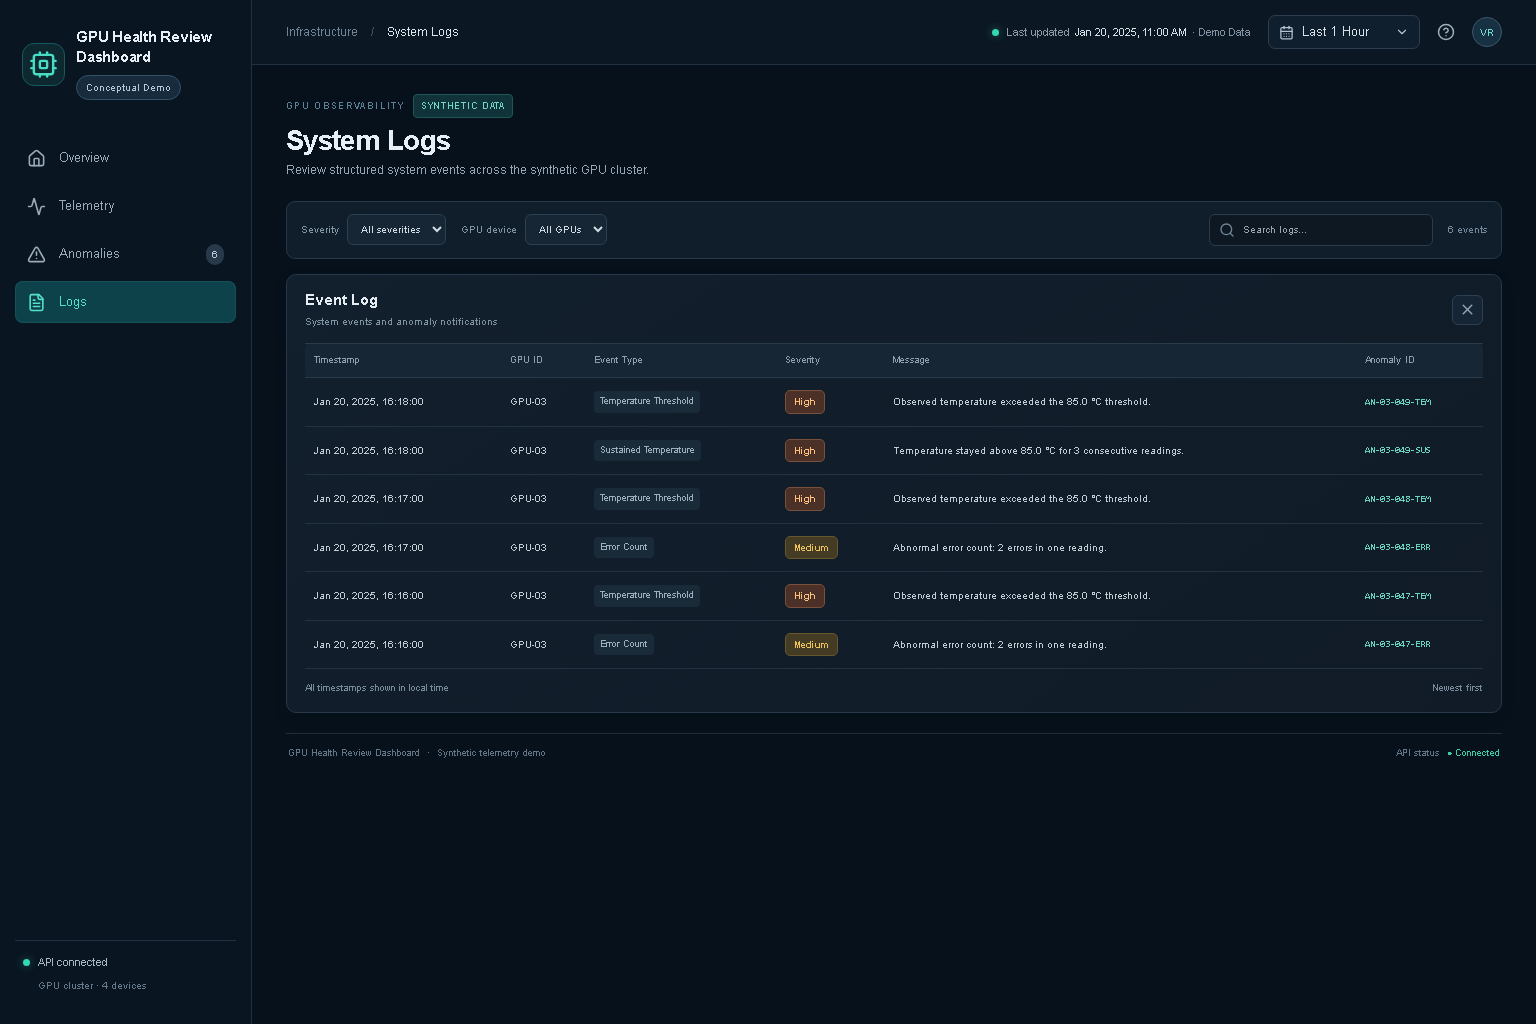
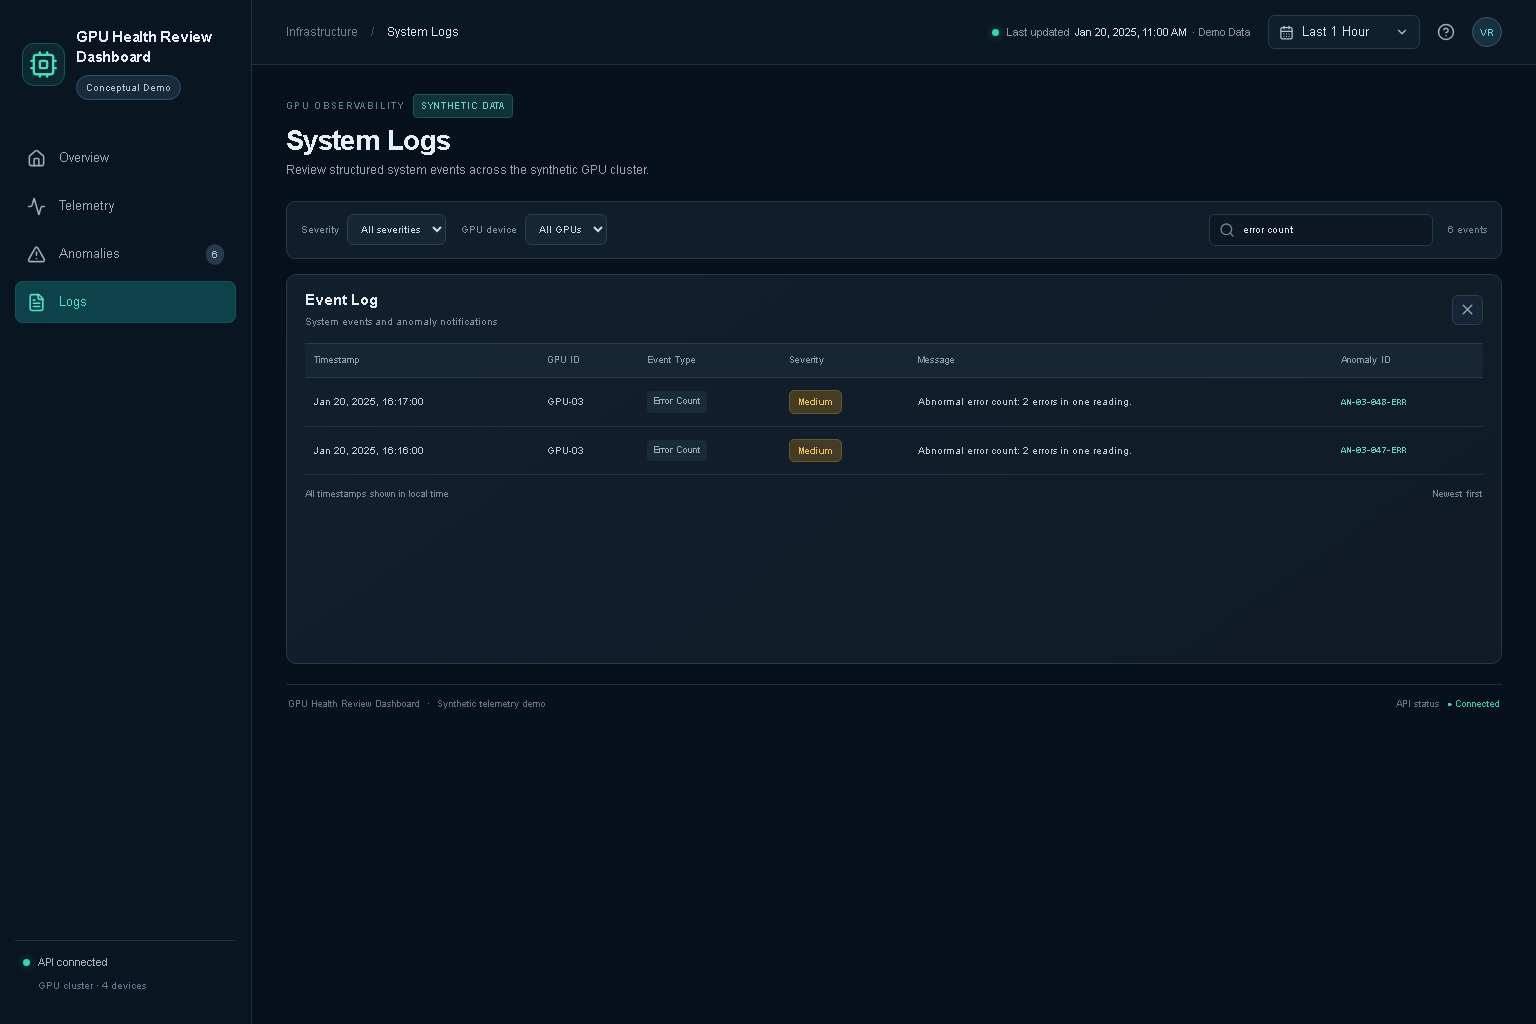
test: strengthen GPU dashboard browser verification

diff --git a/app/page.tsx b/app/page.tsx
@@ -26,6 +26,7 @@ export default function Dashboard(){
  const [page,setPage]=useState('overview'),[gpus,setGpus]=useState(initialGpus),[points,setPoints]=useState<Point[]>([]),[anomalies,setAnomalies]=useState(demoAnomalies),[logs,setLogs]=useState(demoLogs),[apiOk,setApiOk]=useState(false),[range,setRange]=useState('Last 1 Hour'),[selected,setSelected]=useState(demoAnomalies[1]),[severity,setSeverity]=useState('All severities'),[filterGpu,setFilterGpu]=useState('All GPUs'),[teleGpu,setTeleGpu]=useState('GPU-03'),[query,setQuery]=useState(''),[copied,setCopied]=useState(false);
  useEffect(()=>{let alive=true;fetch(`${API}/summary`).then(r=>{if(!r.ok)throw Error();return r.json()}).then(async s=>{if(!alive)return;setApiOk(true);setGpus(s.gpus);const [p,a,l]=await Promise.all([fetch(`${API}/telemetry`).then(r=>r.json()),fetch(`${API}/anomalies`).then(r=>r.json()),fetch(`${API}/logs`).then(r=>r.json())]);if(!alive)return;setPoints(p);setAnomalies(a);setLogs(l);if(a.length)setSelected(a[0])}).catch(()=>setApiOk(false));return()=>{alive=false}},[]);
  const chartData=useMemo(()=>{if(!points.length)return demoSeries;const map=new Map<string,Record<string,number|string>>();for(const p of points){const time=new Date(p.timestamp).toLocaleTimeString('en-US',{hour:'2-digit',minute:'2-digit',hour12:false});const row=map.get(time)||{time};row[p.gpu_id]=p.temperature_c;map.set(time,row)}return [...map.values()]},[points]);
+ const utilizationData=useMemo(()=>{if(!points.length)return chartData.map((row,i)=>({...row,[teleGpu]:54+(i*7%38)}));const map=new Map<string,Record<string,number|string>>();for(const p of points){const time=new Date(p.timestamp).toLocaleTimeString('en-US',{hour:'2-digit',minute:'2-digit',hour12:false});const row=map.get(time)||{time};row[p.gpu_id]=p.utilization_pct;map.set(time,row)}return [...map.values()]},[points,chartData,teleGpu]);
  const visibleAnomalies=anomalies.filter(a=>(severity==='All severities'||a.severity.toLowerCase()===severity.toLowerCase())&&(filterGpu==='All GPUs'||a.gpu_id===filterGpu));
  const gpuRows=gpus.length?gpus:initialGpus; const elevated=gpuRows.filter(g=>g.temperature_c>=g.threshold_c).length; const totalErr=points.reduce((n,p)=>n+p.error_count,0)||2;
  function exportCsv(){const rows=points.filter(p=>p.gpu_id===teleGpu);const csv=['timestamp,gpu_id,temperature_c,utilization_pct,memory_used_gb,error_count',...rows.map(p=>`${p.timestamp},${p.gpu_id},${p.temperature_c},${p.utilization_pct},${p.memory_used_gb},${p.error_count}`)].join('\n');const a=document.createElement('a');a.href=URL.createObjectURL(new Blob([csv],{type:'text/csv'}));a.download=`${teleGpu.toLowerCase()}-telemetry.csv`;a.click();URL.revokeObjectURL(a.href)}
@@ -38,7 +39,7 @@ export default function Dashboard(){
  <div className="overview-grid"><article className="panel chart-panel"><div className="panel-head"><div><h2>GPU Temperature</h2><p>Temperature by device · °C</p></div><div className="chart-legend">{gpuRows.map((g,i)=><span key={g.id}><i style={{background:colors[i%4]}}/>{g.id}</span>)}</div></div><div className="chart-area"><ResponsiveContainer width="100%" height="100%"><LineChart data={chartData} margin={{top:12,right:10,left:-12,bottom:0}}><CartesianGrid stroke="#243444" vertical={true} strokeDasharray="3 4"/><XAxis dataKey="time" tick={{fill:'#8396a8',fontSize:11}} axisLine={{stroke:'#324456'}} tickLine={false} minTickGap={26}/><YAxis domain={[30,100]} ticks={[30,40,50,60,70,80,90,100]} tick={{fill:'#8396a8',fontSize:11}} axisLine={false} tickLine={false}/><Tooltip contentStyle={{background:'#101c28',border:'1px solid #2b4153',borderRadius:9,color:'#e5edf4'}}/><ReferenceLine y={85} stroke="#f3b643" strokeDasharray="5 5" label={{value:'85° threshold',position:'insideTopRight',fill:'#e5b24f',fontSize:10}}/>{gpuRows.map((g,i)=><Line key={g.id} type="monotone" dataKey={g.id} stroke={colors[i%4]} strokeWidth={2.4} dot={false} activeDot={{r:4}} connectNulls/>)}</LineChart></ResponsiveContainer></div><div className="chart-foot"><span><i className="dot cyan-dot"/> Telemetry refreshed every 30 seconds</span><span>Showing {range.toLowerCase()}</span></div></article>
  <article className="panel gpu-panel"><div className="panel-head"><div><h2>GPU Overview</h2><p>Live health and resource usage</p></div><button className="ghost-icon" aria-label="GPU options"><ChevronDown size={17}/></button></div><div className="gpu-table"><div className="gpu-table-head"><span>GPU ID</span><span>Temperature</span><span>Utilization</span><span>Status</span></div>{gpuRows.map((g,i)=><div className="gpu-row" key={g.id}><span className="gpu-name"><i style={{background:colors[i%4]}}/>{g.id}</span><b>{g.temperature_c.toFixed(1)}°C</b><span>{g.utilization_pct}%</span><span className={`status ${g.health==='Elevated'?'warn':''}`}><i/>{g.health}</span><div className="memory-bar"><span style={{width:`${(g.memory_used_gb/g.memory_total_gb)*100}%`,background:colors[i%4]}}/></div><small>Memory {g.memory_used_gb.toFixed(1)} / {g.memory_total_gb} GB</small></div>)}</div><div className="panel-note"><span className="pulse"/> All devices reporting · <a onClick={()=>setPage('telemetry')}>View telemetry →</a></div></article></div>
  <div className="lower-grid"><article className="panel lower-card"><div className="lower-symbol"><Gauge/></div><div><span>Cluster utilization</span><strong>{Math.round(gpuRows.reduce((n,g)=>n+g.utilization_pct,0)/gpuRows.length)}%</strong></div><div className="progress"><i style={{width:`${gpuRows.reduce((n,g)=>n+g.utilization_pct,0)/gpuRows.length}%`}}/></div><small>Average across all GPUs</small></article><article className="panel lower-card"><div className="lower-symbol amber"><HardDrive/></div><div><span>Memory allocated</span><strong>54.6 <small>GB</small></strong></div><div className="progress"><i style={{width:'57%'}}/></div><small>54.6 GB of 96 GB total</small></article><article className="panel lower-card notice-card"><div className="notice-icon"><AlertTriangle/></div><div><span>Latest alert</span><strong>GPU-03 temperature elevated</strong><small>10:42:00 AM · 91.6 °C observed</small></div><button onClick={()=>{setPage('anomalies');setSelected(anomalies[0])}}>Investigate <span>→</span></button></article></div></>}
- {page==='telemetry'&&<><div className="filterbar"><label>GPU device <select value={teleGpu} onChange={e=>setTeleGpu(e.target.value)}>{gpuRows.map(g=><option key={g.id}>{g.id}</option>)}</select></label><label>Time range <select value={range} onChange={e=>setRange(e.target.value)}><option>Last 1 Hour</option><option>Last 6 Hours</option><option>Last 24 Hours</option></select></label><label className="search"><Search size={16}/><input placeholder="Search records…" value={query} onChange={e=>setQuery(e.target.value)}/></label><span className="filter-meta">{points.filter(p=>p.gpu_id===teleGpu).length||49} telemetry records</span></div><div className="telemetry-charts"><article className="panel tele-chart"><div className="panel-head"><div><h2><Thermometer size={17}/> Temperature</h2><p>{teleGpu} · degrees Celsius</p></div><span className="metric-value">{gpuRows.find(g=>g.id===teleGpu)?.temperature_c.toFixed(1)||'88.6'}°C</span></div><div className="chart-area short-chart"><ResponsiveContainer width="100%" height="100%"><LineChart data={chartData}><CartesianGrid stroke="#243444" strokeDasharray="3 4"/><XAxis dataKey="time" tick={{fill:'#8396a8',fontSize:10}}/><YAxis tick={{fill:'#8396a8',fontSize:10}} domain={[30,100]}/><Tooltip contentStyle={{background:'#101c28',border:'1px solid #2b4153'}}/><ReferenceLine y={gpuRows.find(g=>g.id===teleGpu)?.threshold_c||85} stroke="#f3b643" strokeDasharray="5 5"/><Line dataKey={teleGpu} type="monotone" stroke="#f6b94b" strokeWidth={2.4} dot={false}/></LineChart></ResponsiveContainer></div></article><article className="panel tele-chart"><div className="panel-head"><div><h2><Activity size={17}/> Utilization</h2><p>{teleGpu} · processor load</p></div><span className="metric-value">{gpuRows.find(g=>g.id===teleGpu)?.utilization_pct||91}%</span></div><div className="chart-area short-chart"><ResponsiveContainer width="100%" height="100%"><LineChart data={chartData.map((r,i)=>({...r,load:45+((i*7)%37)}))}><CartesianGrid stroke="#243444" strokeDasharray="3 4"/><XAxis dataKey="time" tick={{fill:'#8396a8',fontSize:10}}/><YAxis tick={{fill:'#8396a8',fontSize:10}} domain={[0,100]}/><Tooltip contentStyle={{background:'#101c28',border:'1px solid #2b4153'}}/><Line dataKey="load" type="monotone" stroke="#45d7bc" strokeWidth={2.4} dot={false}/></LineChart></ResponsiveContainer></div></article></div><article className="panel records"><div className="panel-head"><div><h2>Telemetry Records</h2><p>Source readings for {teleGpu}</p></div><span className="tag">SYNTHETIC DATA</span></div><div className="table-wrap"><table><thead><tr><th>Timestamp</th><th>GPU ID</th><th>Temperature</th><th>Utilization</th><th>Memory</th><th>Errors</th></tr></thead><tbody>{(points.length?points.filter(p=>p.gpu_id===teleGpu):Array.from({length:12},(_,i)=>({timestamp:`2025-01-20T10:${String(59-i).padStart(2,'0')}:00`,gpu_id:teleGpu,temperature_c:58+(i*7%30),utilization_pct:54+(i*11%44),memory_used_gb:11.2+(i%7),error_count:i%7===0?1:0,record_id:`demo-${i}`}))).filter(p=>`${p.timestamp} ${p.gpu_id} ${p.temperature_c}`.toLowerCase().includes(query.toLowerCase())).slice(0,20).map(p=><tr key={p.record_id}><td>{stamp(p.timestamp)}</td><td><span className="table-gpu"><i/> {p.gpu_id}</span></td><td>{p.temperature_c.toFixed(1)} °C</td><td>{p.utilization_pct}%</td><td>{p.memory_used_gb.toFixed(1)} GB</td><td>{p.error_count}</td></tr>)}</tbody></table></div></article></>}
+ {page==='telemetry'&&<><div className="filterbar"><label>GPU device <select value={teleGpu} onChange={e=>setTeleGpu(e.target.value)}>{gpuRows.map(g=><option key={g.id}>{g.id}</option>)}</select></label><label>Time range <select value={range} onChange={e=>setRange(e.target.value)}><option>Last 1 Hour</option><option>Last 6 Hours</option><option>Last 24 Hours</option></select></label><label className="search"><Search size={16}/><input placeholder="Search records…" value={query} onChange={e=>setQuery(e.target.value)}/></label><span className="filter-meta">{points.filter(p=>p.gpu_id===teleGpu).length||49} telemetry records</span></div><div className="telemetry-charts"><article className="panel tele-chart"><div className="panel-head"><div><h2><Thermometer size={17}/> Temperature</h2><p>{teleGpu} · degrees Celsius</p></div><span className="metric-value">{gpuRows.find(g=>g.id===teleGpu)?.temperature_c.toFixed(1)||'88.6'}°C</span></div><div className="chart-area short-chart"><ResponsiveContainer width="100%" height="100%"><LineChart data={chartData}><CartesianGrid stroke="#243444" strokeDasharray="3 4"/><XAxis dataKey="time" tick={{fill:'#8396a8',fontSize:10}}/><YAxis tick={{fill:'#8396a8',fontSize:10}} domain={[30,100]}/><Tooltip contentStyle={{background:'#101c28',border:'1px solid #2b4153'}}/><ReferenceLine y={gpuRows.find(g=>g.id===teleGpu)?.threshold_c||85} stroke="#f3b643" strokeDasharray="5 5"/><Line dataKey={teleGpu} type="monotone" stroke="#f6b94b" strokeWidth={2.4} dot={false}/></LineChart></ResponsiveContainer></div></article><article className="panel tele-chart"><div className="panel-head"><div><h2><Activity size={17}/> Utilization</h2><p>{teleGpu} · processor load</p></div><span className="metric-value">{gpuRows.find(g=>g.id===teleGpu)?.utilization_pct||91}%</span></div><div className="chart-area short-chart"><ResponsiveContainer width="100%" height="100%"><LineChart data={utilizationData}><CartesianGrid stroke="#243444" strokeDasharray="3 4"/><XAxis dataKey="time" tick={{fill:'#8396a8',fontSize:10}}/><YAxis tick={{fill:'#8396a8',fontSize:10}} domain={[0,100]}/><Tooltip contentStyle={{background:'#101c28',border:'1px solid #2b4153'}}/><Line dataKey={teleGpu} type="monotone" stroke="#45d7bc" strokeWidth={2.4} dot={false}/></LineChart></ResponsiveContainer></div></article></div><article className="panel records"><div className="panel-head"><div><h2>Telemetry Records</h2><p>Source readings for {teleGpu}</p></div><span className="tag">SYNTHETIC DATA</span></div><div className="table-wrap"><table><thead><tr><th>Timestamp</th><th>GPU ID</th><th>Temperature</th><th>Utilization</th><th>Memory</th><th>Errors</th></tr></thead><tbody>{(points.length?points.filter(p=>p.gpu_id===teleGpu):Array.from({length:12},(_,i)=>({timestamp:`2025-01-20T10:${String(59-i).padStart(2,'0')}:00`,gpu_id:teleGpu,temperature_c:58+(i*7%30),utilization_pct:54+(i*11%44),memory_used_gb:11.2+(i%7),error_count:i%7===0?1:0,record_id:`demo-${i}`}))).filter(p=>`${p.timestamp} ${p.gpu_id} ${p.temperature_c}`.toLowerCase().includes(query.toLowerCase())).slice(0,20).map(p=><tr key={p.record_id}><td>{stamp(p.timestamp)}</td><td><span className="table-gpu"><i/> {p.gpu_id}</span></td><td>{p.temperature_c.toFixed(1)} °C</td><td>{p.utilization_pct}%</td><td>{p.memory_used_gb.toFixed(1)} GB</td><td>{p.error_count}</td></tr>)}</tbody></table></div></article></>}
  {page==='anomalies'&&<div className="investigation-grid"><article className="panel events-panel"><div className="panel-head"><div><h2>Anomaly Events <span className="count">{visibleAnomalies.length}</span></h2><p>Detected events in selected time range</p></div><div className="filters"><select value={filterGpu} onChange={e=>setFilterGpu(e.target.value)} aria-label="Filter by GPU"><option>All GPUs</option>{gpuRows.map(g=><option key={g.id}>{g.id}</option>)}</select><select value={severity} onChange={e=>setSeverity(e.target.value)} aria-label="Filter by severity"><option>All severities</option><option>High</option><option>Medium</option><option>Low</option></select></div></div><div className="table-wrap"><table><thead><tr><th>Event ID</th><th>Timestamp</th><th>GPU ID</th><th>Observed</th><th>Threshold</th><th>Severity</th></tr></thead><tbody>{visibleAnomalies.map(a=><tr key={a.id} onClick={()=>setSelected(a)} className={`click-row ${selected?.id===a.id?'selected':''}`}><td className="event-id">{a.id}</td><td>{stamp(a.timestamp)}</td><td>{a.gpu_id}</td><td className="temp-hot">{a.rule==='error_count'?`${a.observed_value.toFixed(0)} errors`:`${a.observed_value.toFixed(1)} °C`}</td><td>{a.rule==='error_count'?`≥ ${a.threshold.toFixed(0)} errors`:`≤ ${a.threshold.toFixed(1)} °C`}</td><td><span className={`severity ${a.severity.toLowerCase()}`}>{a.severity}</span></td></tr>)}</tbody></table>{visibleAnomalies.length===0&&<div className="empty">No anomaly events match these filters.</div>}</div><div className="table-footer">Showing {visibleAnomalies.length} of {anomalies.length} events <span>Sorted newest first</span></div></article>
  <article className="panel trace-panel"><div className="panel-head"><div><div className="trace-label"><span className={`severity ${selected?.severity.toLowerCase()}`}>{selected?.severity||'—'}</span><span>TRACEABILITY</span></div><h2>{selected?.gpu_id||'No alert selected'} {selected?.rule==='error_count'?'Error Count':'Temperature'} Anomaly</h2></div></div>{selected?<><div className="trace-details"><div><span>Timestamp</span><b>{stamp(selected.timestamp)}</b></div><div><span>Detection rule</span><b>{selected.rule.replaceAll('_',' ')}</b></div><div><span>{selected.rule==='error_count'?'Observed errors':'Observed temperature'}</span><b className="temp-hot">{selected.rule==='error_count'?`${selected.observed_value.toFixed(0)} errors`:`${selected.observed_value.toFixed(1)} °C`}</b></div><div><span>Configured threshold</span><b>{selected.rule==='error_count'?`≥ ${selected.threshold.toFixed(0)} errors`:`${selected.threshold.toFixed(1)} °C`}</b></div><div><span>Source record</span><b className="record-id">{selected.source_record_id}</b></div></div><div className="reason"><AlertTriangle size={16}/><span>{selected.description}</span></div><div className="json-head"><div><h3>Originating Telemetry Reading</h3><p>Original record · {selected.source_record_id}</p></div><button className="copy-button" onClick={copyJson}>{copied?<Check size={14}/>:<Clipboard size={14}/>} {copied?'Copied':'Copy JSON'}</button></div><pre className="json">{JSON.stringify(selected.source_record,null,2)}</pre></>:<div className="empty">Select an event to inspect its source reading.</div>}</article></div>}
  {page==='logs'&&<><div className="filterbar"><label>Severity <select value={severity} onChange={e=>setSeverity(e.target.value)}><option>All severities</option><option>High</option><option>Medium</option><option>Low</option></select></label><label>GPU device <select value={filterGpu} onChange={e=>setFilterGpu(e.target.value)}><option>All GPUs</option>{gpuRows.map(g=><option key={g.id}>{g.id}</option>)}</select></label><label className="search"><Search size={16}/><input placeholder="Search logs…" value={query} onChange={e=>setQuery(e.target.value)}/></label><span className="filter-meta">{logs.length} events</span></div><article className="panel records logs-panel"><div className="panel-head"><div><h2>Event Log</h2><p>System events and anomaly notifications</p></div><button className="ghost-icon" onClick={()=>{setSeverity('All severities');setFilterGpu('All GPUs');setQuery('')}} aria-label="Clear filters"><X size={17}/></button></div><div className="table-wrap"><table><thead><tr><th>Timestamp</th><th>GPU ID</th><th>Event Type</th><th>Severity</th><th>Message</th><th>Anomaly ID</th></tr></thead><tbody>{logs.filter(l=>(severity==='All severities'||l.severity.toLowerCase()===severity.toLowerCase())&&(filterGpu==='All GPUs'||l.gpu_id===filterGpu)&&`${l.message} ${l.gpu_id} ${l.event_type}`.toLowerCase().includes(query.toLowerCase())).map(l=><tr key={l.id}><td>{stamp(l.timestamp)}</td><td>{l.gpu_id}</td><td><span className="log-type">{l.event_type.replaceAll('_',' ')}</span></td><td><span className={`severity ${l.severity.toLowerCase()}`}>{l.severity}</span></td><td>{l.message}</td><td>{l.anomaly_id?<a className="event-id" onClick={()=>{const a=anomalies.find(x=>x.id===l.anomaly_id);if(a){setSelected(a);setPage('anomalies')}}}>{l.anomaly_id}</a>:'—'}</td></tr>)}</tbody></table>{logs.length===0&&<div className="empty">No logs found.</div>}</div><div className="table-footer">All timestamps shown in local time <span>Newest first</span></div></article></>}

diff --git a/e2e/dashboard.spec.ts b/e2e/dashboard.spec.ts
@@ -3,11 +3,34 @@ import fs from 'node:fs';
 import path from 'node:path';
 test('navigation, filters, traceability and screenshots', async ({page})=>{
   await page.setViewportSize({width:1536,height:1024});
+  await page.context().grantPermissions(['clipboard-read','clipboard-write']);
   await page.goto('/');
   await expect(page.getByRole('heading',{name:'Overview',exact:true})).toBeVisible();
+  await expect(page.locator('.recharts-surface').first()).toBeVisible();
   const shots=path.resolve('docs/screenshots');fs.mkdirSync(shots,{recursive:true});
   await page.screenshot({path:path.join(shots,'overview.png'),fullPage:true});
-  await page.getByRole('button',{name:'Telemetry'}).click();await expect(page.getByRole('heading',{name:'Telemetry Explorer'})).toBeVisible();await page.getByRole('button',{name:'Export CSV'}).click();await page.screenshot({path:path.join(shots,'telemetry.png'),fullPage:true});
-  await page.getByRole('button',{name:/Anomalies/}).click();await expect(page.getByRole('heading',{name:/Anomaly Events/})).toBeVisible();await page.getByRole('button',{name:'Copy JSON'}).click();await page.screenshot({path:path.join(shots,'anomalies.png'),fullPage:true});
-  await page.getByRole('button',{name:'Logs'}).click();await expect(page.getByRole('heading',{name:'Event Log'})).toBeVisible();await page.screenshot({path:path.join(shots,'logs.png'),fullPage:true});
+  await page.getByRole('button',{name:'Telemetry'}).click();
+  await expect(page.getByRole('heading',{name:'Telemetry Explorer'})).toBeVisible();
+  const downloadPromise=page.waitForEvent('download');
+  await page.getByRole('button',{name:'Export CSV'}).click();
+  expect((await downloadPromise).suggestedFilename()).toBe('gpu-03-telemetry.csv');
+  await page.getByLabel('GPU device').selectOption('GPU-01');
+  await expect(page.getByText('Source readings for GPU-01')).toBeVisible();
+  await page.screenshot({path:path.join(shots,'telemetry.png'),fullPage:true});
+  await page.getByRole('button',{name:/Anomalies/}).click();
+  await expect(page.getByRole('heading',{name:/Anomaly Events/})).toBeVisible();
+  await page.getByLabel('Filter by GPU').selectOption('GPU-02');
+  await expect(page.locator('.click-row')).toHaveCount(0);
+  await page.getByLabel('Filter by GPU').selectOption('All GPUs');
+  await page.locator('.click-row').nth(2).click();
+  await expect(page.locator('.json')).toContainText('REC-03-048');
+  await page.getByRole('button',{name:'Copy JSON'}).click();
+  await expect(page.getByRole('button',{name:'Copied'})).toBeVisible();
+  expect(await page.evaluate(()=>navigator.clipboard.readText())).toContain('REC-03-048');
+  await page.screenshot({path:path.join(shots,'anomalies.png'),fullPage:true});
+  await page.getByRole('button',{name:'Logs'}).click();
+  await expect(page.getByRole('heading',{name:'Event Log'})).toBeVisible();
+  await page.getByPlaceholder('Search logs…').fill('error count');
+  await expect(page.locator('tbody tr')).toHaveCount(2);
+  await page.screenshot({path:path.join(shots,'logs.png'),fullPage:true});
 });
